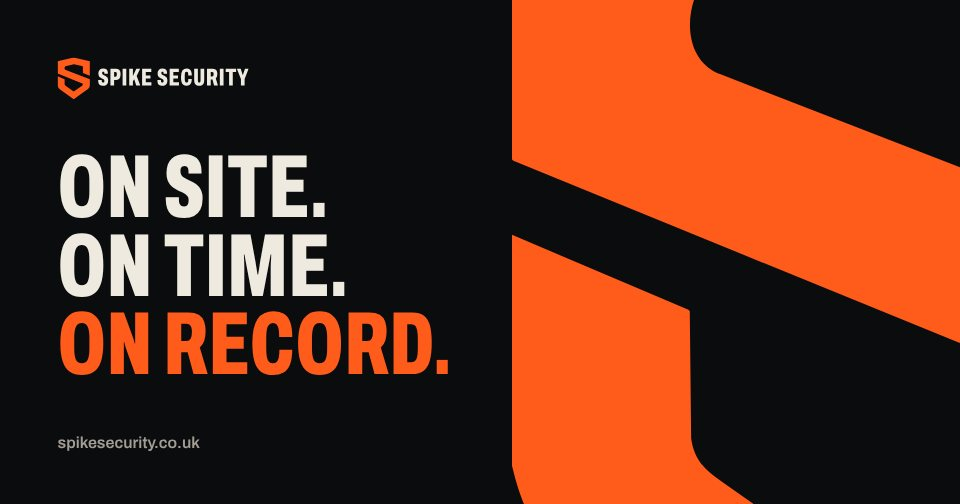
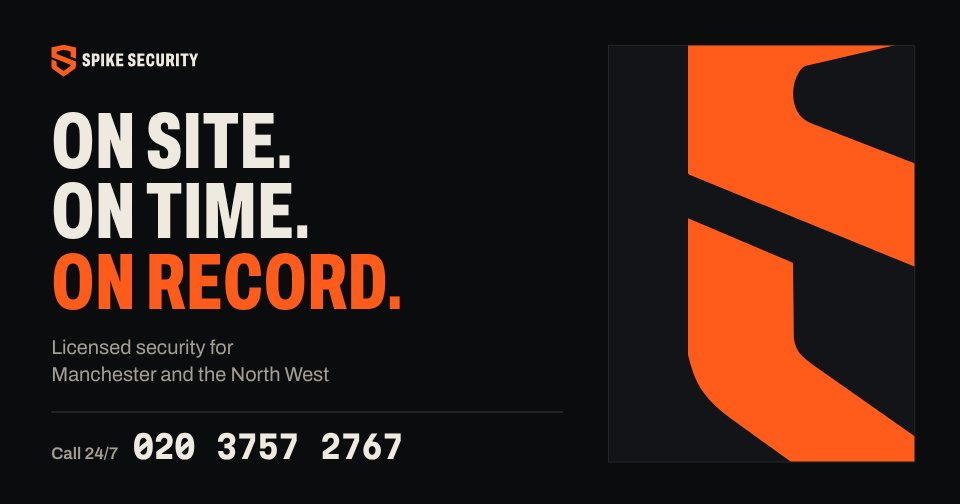
Link preview cards for every main page, and two small fixes
- Sharing a page on WhatsApp, iMessage, LinkedIn, Facebook, Slack or X now
  shows a card made for it, drawn like the site's cover: the lockup, the
  page's headline in condensed capitals (the home card is the brand line),
  what Spike does, and "Call 24/7" with the number in Martian Mono, beside
  the shield in Signal mode. Twelve cards, one per main page; other pages
  use the home card.
- scripts/og/cards.cjs (npm run og) draws them from the built pages, so a
  card always matches its page, and writes src/_data/og.json: alt text and a
  version that changes with each image so apps fetch the new one.
- The page head adds og:locale, og:image:type, per-page og:image and alt,
  twitter:image, and clearer titles ("Door supervisors in Manchester |
  Spike Security"; the home page says what Spike does).
- The brand pack's link preview is now the home card; the brand generator
  no longer draws its own.
- Phone dock: reads the newest scroll update, so a fast jump never shows it
  over the orange finale. Menu: opening and closing it no longer scrolls the
  page behind it.

Claude-Session: https://claude.ai/code/session_01R9KadwKqbPt3zvGR2NRecq

diff --git a/src/assets/js/site.js b/src/assets/js/site.js
@@ -25,10 +25,11 @@
       btn.setAttribute('aria-expanded', open ? 'true' : 'false');
       btn.textContent = open ? 'Close' : 'Menu';
       panel.hidden = !open;
-      if (open) { var first = panel.querySelector('a'); if (first) first.focus(); }
+      // the panel hangs from the sticky bar, so it is always in view: moving focus must not scroll the page behind it
+      if (open) { var first = panel.querySelector('a'); if (first) first.focus({ preventScroll: true }); }
     }
     btn.addEventListener('click', function () { set(btn.getAttribute('aria-expanded') !== 'true'); });
-    doc.addEventListener('keydown', function (e) { if (e.key === 'Escape' && !panel.hidden) { set(false); btn.focus(); } });
+    doc.addEventListener('keydown', function (e) { if (e.key === 'Escape' && !panel.hidden) { set(false); btn.focus({ preventScroll: true }); } });
     panel.addEventListener('click', function (e) { if (e.target.closest('a')) set(false); });
     window.matchMedia('(min-width: 1100px)').addEventListener('change', function (m) { if (m.matches) set(false); });
   }
@@ -46,8 +47,9 @@
       el.setAttribute('aria-hidden', on ? 'false' : 'true');
       el.querySelectorAll('a').forEach(function (a) { a.tabIndex = on ? 0 : -1; });
     }
-    new IntersectionObserver(function (e) { gone = !e[0].isIntersecting && e[0].boundingClientRect.top < 0; set(); }).observe(target);
-    if (finale) new IntersectionObserver(function (e) { finaleIn = e[0].isIntersecting; set(); }).observe(finale);
+    // a fast scroll can queue several entries for one element: the last one is the current state
+    new IntersectionObserver(function (e) { var x = e[e.length - 1]; gone = !x.isIntersecting && x.boundingClientRect.top < 0; set(); }).observe(target);
+    if (finale) new IntersectionObserver(function (e) { finaleIn = e[e.length - 1].isIntersecting; set(); }).observe(finale);
   }
 
   /* ── Forms ───────────────────────────────────────────────── */

diff --git a/branding.html b/branding.html
@@ -16,12 +16,12 @@
   <meta property="og:title" content="Brand Guidelines | Spike Security"/>
   <meta property="og:description" content="The shield, colour, type, voice and every approved file, ready to download."/>
   <meta property="og:url" content="https://www.spikesecurity.co.uk/branding"/>
-  <meta property="og:image" content="https://www.spikesecurity.co.uk/resources/brand/social/spike-security-share-1200x630.png"/>
+  <meta property="og:image" content="https://www.spikesecurity.co.uk/resources/brand/social/spike-security-share-1200x630.png?v=3.1"/>
   <meta property="og:image:width" content="1200"/>
   <meta property="og:image:height" content="630"/>
   <meta property="og:image:alt" content="Spike Security. On site. On time. On record."/>
   <meta name="twitter:card" content="summary_large_image"/>
-  <meta name="twitter:image" content="https://www.spikesecurity.co.uk/resources/brand/social/spike-security-share-1200x630.png"/>
+  <meta name="twitter:image" content="https://www.spikesecurity.co.uk/resources/brand/social/spike-security-share-1200x630.png?v=3.1"/>
   <link rel="preload" href="assets/fonts/archivo-latin.woff2" as="font" type="font/woff2" crossorigin/>
   <link rel="preload" href="assets/fonts/martian-mono-latin.woff2" as="font" type="font/woff2" crossorigin/>
   <link rel="stylesheet" href="css/branding.css"/>

diff --git a/scripts/brand-assets/build.py b/scripts/brand-assets/build.py
@@ -272,14 +272,8 @@ def compositions(H_):
         <p class="label" style="font-size:19px;color:{C['ash']}">Licensed security · Manchester &amp; the North West</p>
       </div>''', 1584, 396), 1584, 396)
 
-    # Link preview / Open Graph card
-    cmp['social/spike-security-share-1200x630'] = (page(f'''
-      {shield_svg(C['orange'], 'position:absolute;height:1320px;left:640px;top:-300px')}
-      <div style="position:absolute;left:72px;top:72px;bottom:66px;width:560px;display:flex;flex-direction:column;justify-content:space-between">
-        {lk(C['orange'], C['bone'], 52)}
-        <p class="disp" style="font-size:112px;line-height:.88">On site.<br>On time.<br><span class="o">On record.</span></p>
-        <p class="label" style="font-size:20px;color:{C['ash']}">{WEB}</p>
-      </div>''', 1200, 630), 1200, 630)
+    # The link preview (social/spike-security-share-1200x630) is the website's home card, drawn with
+    # the site's own cards by scripts/og/cards.cjs, so it is not composed here.
 
     # Signs: A3 portrait, vector PDF + PNG preview
     # A3 sign: orange message panel (top 62%) over an obsidian sign-off panel.

diff --git a/DESIGN.md b/DESIGN.md
@@ -219,6 +219,7 @@ A slim sticky bar (60px): the horizontal lockup, page links in sentence case wit
 - **Finale:** each long page ends on drenched Spike Orange with the 24-hour number set across the full width in Martian Mono Bold, obsidian on orange, like a road sign, then a sentence and an obsidian button.
 - **Coverage diagram:** the home page shows where we work as a drawing, not a placeholder: north up and to scale, the orange shield at the office, hairline rings at 5 and 10 miles, and each area we cover most as a bone square with its name and its straight-line distance in Martian Mono. Positions and distances are worked out from the coordinates in `src/_data/site.json` (`areaPoints`), so the drawing and the street map never disagree. It needs no cookies and no third party.
 - **Maps:** Leaflet with OpenStreetMap tiles, darkened in CSS to the brand's warm greys, sharp on high-density screens, the shield as the pin and "Our office" on a small obsidian plate where there is room. Off until the visitor allows maps in the cookie prompt or presses "Show the street map"; on the home page the street map replaces the coverage diagram in the same frame, framed on the same areas, with "Turn the map off" underneath.
+- **Link previews:** every main page has its own 1200 × 630 card for WhatsApp and the like, drawn like the cover: the horizontal lockup, the page headline in condensed capitals (the home card is the brand line with "On record." in orange), one supporting line in ash, a hairline, then "Call 24/7" and the number in Martian Mono Bold, with the shield in Signal mode in a panel on the right. Other pages use the home card, which is also the brand pack's link preview. Made by `scripts/og/cards.cjs` from the built pages, so a card always matches its page.
 - **Pairs:** two short statements may sit side by side under condensed headlines, divided by a hairline, to break a run of statement-and-text sections (how we work: insurance, and what happens if something goes wrong).
 - **Forms:** labels above fields, hints in ash, phone and licence numbers typed in Martian Mono, errors inline in orange with an "!" mark and the word "Error" for screen readers, focus on the first error. Until a form service is connected, the button reads "Open in my email app" and the confirmation says plainly that the email app sends it, with the message to copy. Never report a send that did not happen.
 - **Footer:** three calm rows: the lockup and the page links; the 24-hour number, email and office; then the trading disclosure (registered name, number, England and Wales, registered office) with legal links and "Cookie settings". On phones the page links are hidden; the menu already has them.

diff --git a/docs/site-improvement-plan.md b/docs/site-improvement-plan.md
@@ -33,6 +33,7 @@ Where a skill asked a question, it has been answered on your behalf. Every one o
 - **Brand pack refreshed.** Site signs and social images use the calmer sentence-case labels, the signs set the 24-hour number in Martian Mono, the pack includes both fonts with their licences, and the brand page loads its fonts from our own site, as the privacy notice says.
 - **Martian Mono for the numbers** (brand 3.1). A typeface built for code, with a slashed zero, at 87.5% width. It sets the phone number everywhere it appears (bar, cover, menu, contact, footer and the full-width finale), times, dates and references in the shift report, company and licence numbers, the numbered steps, the phone and licence fields in the forms, and colour values and measurements on the brand page. It replaced Chivo Mono, which did not read as code. Words stay in Archivo (the Record Rule in DESIGN.md).
 - **Coverage diagram.** The home page's area section draws where we work instead of showing an empty map box: the office, rings at 5 and 10 miles, and the six areas with their straight-line distance in Martian Mono, all worked out from coordinates in `site.json`. It needs no cookies; the street map is still one tap away and opens in the same frame. Both map buttons now say "Show the street map", and the legal and privacy pages match.
+- **Link previews.** Sharing any page on WhatsApp, iMessage, LinkedIn or Slack shows a card made for it: the page's headline, what Spike does and the 24-hour number, with the shield. Twelve cards, one per main page, drawn from the pages themselves by `npm run og`.
 - **How we work** ends with insurance and "If something goes wrong" side by side, which breaks a run of five identical sections. The 404 page's links now line up with the page.
 
 **Still to do:** the photo shoot, case studies and Google Business Profile (Phase 4), a form service, and the facts in [section 11](#11-facts-only-spike-can-confirm). The homepage frame in `docs/site-plan/` is kept as the original direction; the live site supersedes it.

diff --git a/README.md b/README.md
@@ -16,6 +16,16 @@ npm run serve    # local preview with live reload
 
 Pushing to `main` builds the site and publishes `_site/` to GitHub Pages (`.github/workflows/deploy.yml`).
 
+## Link previews
+
+Each main page has its own 1200 × 630 card for WhatsApp, iMessage, LinkedIn, Facebook, Slack and X, in `src/assets/og/`. Other pages use the home card. The cards are drawn from the built pages' headlines, so after changing a headline run:
+
+```
+npm run build && npm run og    # needs Playwright; set PLAYWRIGHT_PATH if Node cannot find it
+```
+
+It rewrites the cards, `src/_data/og.json` (alt text and a version that changes with each image, so apps fetch the new one) and the brand pack's link preview. WhatsApp caches previews: to check a change, share a link you have not shared before, such as `https://www.spikesecurity.co.uk/?v=2`.
+
 ## Forms
 
 The quote and application forms open the visitor's email app with the message filled in. To receive them without the email app, set `formEndpoint` in `src/_data/site.json` to a form service URL that accepts a POST; the forms then send directly and show sent or failed states.

diff --git a/scripts/brand-assets/README.md b/scripts/brand-assets/README.md
@@ -11,6 +11,7 @@ node scripts/brand-assets/render.cjs       # PNG, JPEG and PDF, then the ZIP
 ```
 
 - `build.py` downloads Archivo and Martian Mono (both SIL Open Font License) to your temp folder, converts the wordmark to outlines so SVG and PDF files print correctly without the font installed, and rewrites the `generated:symbols` and `generated:matrix` blocks in `branding.html`.
+- The link preview in `resources/brand/social/` is the website's home card, made by `scripts/og/cards.cjs` (`npm run og`), not by this generator.
 - `render.cjs` renders through Chromium so the variable font's width and weight axes come out exactly as they do in the browser.
 - `shield.py` holds the shield path, copied verbatim from `resources/SPIKE SECURITY LOGO.svg`. Do not edit it.
 - Lockup proportions, colourways and layouts are constants at the top of `build.py`. Change them there and rebuild; never edit the generated files by hand.
